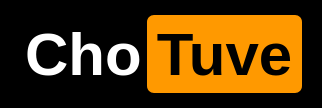
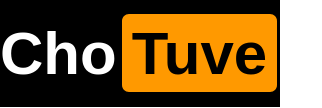
Minor changes

diff --git a/src/HomePage.js b/src/HomePage.js
@@ -1,7 +1,7 @@
 import React from 'react';
 import 'bootstrap/dist/css/bootstrap.min.css'
 //import { useHistory } from 'react-router-dom';
-import {Col, Button, Row, Navbar, Nav } from "react-bootstrap";
+import {Col, Button, Row, Container, Navbar, Nav } from "react-bootstrap";
 import chotuveLogo from "./chotuve.png";
 import "./index.css";
 import { Redirect } from 'react-router-dom';
@@ -22,11 +22,12 @@ class HomeHeader extends React.Component {
     render() {
         return (
             <div>
+                <Container fluid>
                     <Row>
-                        <Col>
-                            <img src={chotuveLogo} class="rounded float-left" alt="chotuve-logo"/>
-                        </Col>
+                        <img src={chotuveLogo} class="rounded float-left" alt="chotuve-logo"/>
                     </Row>
+                </Container>
+
                 <div>
                     <Navbar bg="dark" expand="lg">
                         <Navbar.Toggle aria-controls="basic-navbar-nav" />

diff --git a/src/index.css b/src/index.css
@@ -22,3 +22,8 @@ body {
 .navbar-default {
   background-image: linear-gradient(to bottom, #f90 0, #f90 100%) !important; /* override background image gradient w/ flat color */
 }
+
+.btn{
+  margin-right:5px;
+  background-image: linear-gradient(to bottom, black, black 100%) !important; /* override background image gradient w/ flat color */
+}

diff --git a/src/App.js b/src/App.js
@@ -11,6 +11,6 @@ export default function App() {
     // Declare a new state variable, which we'll call "count"
     //const [count, setCount] = useState(0);
     return (
-            <Routes />
-  );
+        <Routes/>
+    );
 }
